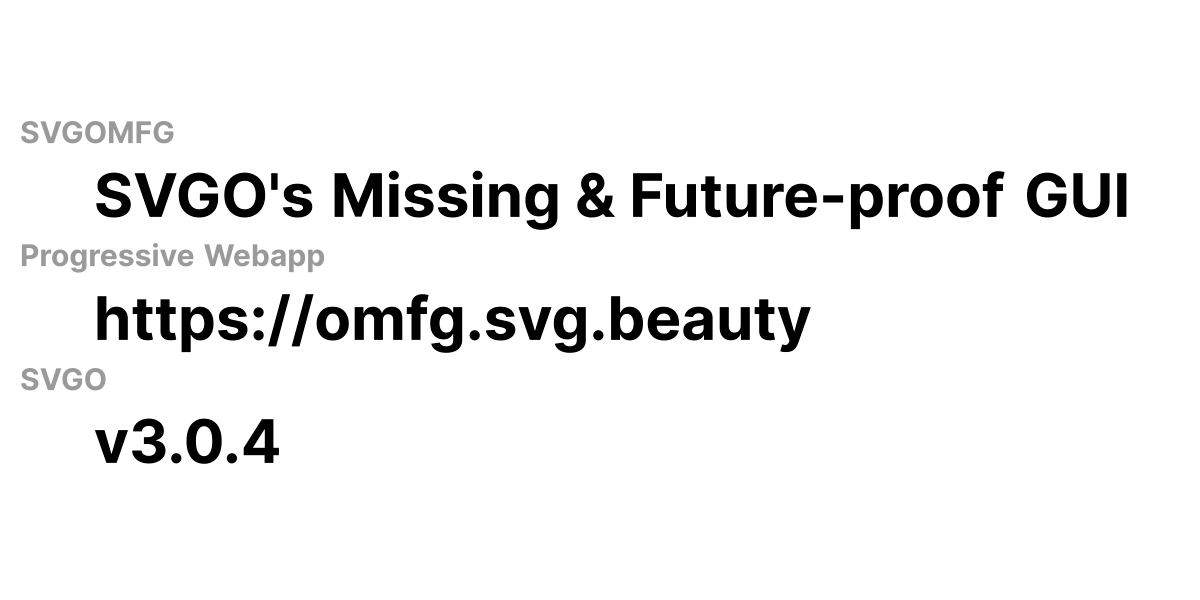
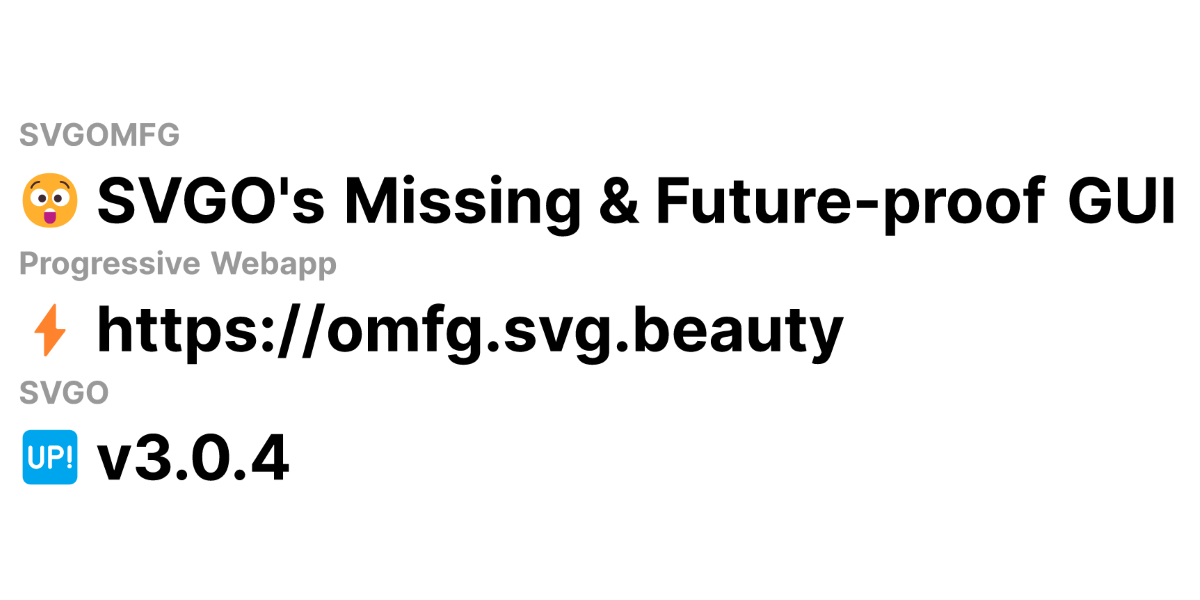
🎨 Just a little bit adjusting

Changed region(s): [[0.0, 0.27, 0.9867, 0.81], [0.0, 0.18, 0.1542, 0.24]]

diff --git a/src/js/page/ui/copy-button.js b/src/js/page/ui/copy-button.js
@@ -8,7 +8,7 @@ export default class CopyButton extends FloatingActionButton {
       title,
       iconSvg:
         // prettier-ignore
-        '<svg aria-hidden="true" class="icon" viewBox="0 0 24 24">' +
+        '<svg aria-hidden="true" fill="currentColor" class="icon" viewBox="0 0 24 24">' +
           '<path d="M9 18q-.825 0-1.412-.587T7 16V4q0-.825.588-1.412T9 2h9q.825 0 1.413.588T20 4v12q0 .825-.587 1.413T18 18H9Zm0-2h9V4H9v12Zm-4 6q-.825 0-1.412-.587T3 20V7q0-.425.288-.712T4 6q.425 0 .713.288T5 7v13h10q.425 0 .713.288T16 21q0 .425-.288.713T15 22H5Zm4-6V4v12Z"/>' +
         '</svg>',
     })

diff --git a/gulpfile.js b/gulpfile.js
@@ -123,8 +123,8 @@ async function html() {
         SVGOMFG_VERSION: changelog[0].version,
         SVGO_VERSION,
         liveBaseUrl: 'https://omfg.svg.beauty',
-        title: `SVGOMFG - SVGO's Missing GUI`,
-        description: 'Easy & visual compression of SVG images.',
+        title: "SVGOMFG‼ SVGO's Missing and Future-proof GUI",
+        description: 'Easy & Visual 🎛 Compression of SVG Images ⚡ Ready to install for Offline Usage 🔌',
         appleTouchIconPath: '/apple-touch-icon.png',
         faviconPath: '/favicon.svg',
         ogImagePath: '/imgs/og-image.png',

diff --git a/src/js/svgo-worker/index.js b/src/js/svgo-worker/index.js
@@ -43,10 +43,7 @@ function compress(svgInput, settings) {
       params: {},
     }
 
-    // TODO: revisit this
-    // 0 almost always breaks images when used on `cleanupNumericValues`.
-    // Better to allow 0 for everything else, but switch to 1 for this plugin.
-    plugin.params.floatPrecision = plugin.name === 'cleanupNumericValues' && floatPrecision === 0 ? 1 : floatPrecision
+    plugin.params.floatPrecision = floatPrecision // Remove the switch to 1 precision
 
     plugin.params.transformPrecision = transformPrecision
 

diff --git a/src/css/components/_floating-action-button.scss b/src/css/components/_floating-action-button.scss
@@ -7,7 +7,6 @@
   position: relative;
   cursor: pointer;
   overflow: hidden;
-  z-index: 0; // Is this really needed?
   display: flex;
   align-items: center;
   justify-content: center;
@@ -19,6 +18,8 @@
 
   &:hover,
   &.key-focused {
+    background-color: red;
+    color: #fff;
     transform: scale(1.15);
   }
 
@@ -51,7 +52,7 @@
     width: 56px;
     height: 56px;
     border-radius: 28px;
-    background-color: #fff;
+    background-color: red;
 
     .icon {
       fill: #fff;

diff --git a/src/css/components/_settings.scss b/src/css/components/_settings.scss
@@ -1,5 +1,6 @@
 .settings {
   background-color: #fff;
+  border-radius: 4px;
   display: flex;
   flex-flow: column;
   @include user-select(none);
@@ -16,7 +17,7 @@
   position: relative;
   cursor: pointer;
   padding: 0 16px;
-  height: 51px;
+  height: 40px;
   display: grid;
   grid-template-columns: max-content 1fr;
   align-items: center;

diff --git a/src/css/components/_results.scss b/src/css/components/_results.scss
@@ -9,7 +9,8 @@
     box-shadow: 0 3px 3px rgba(0, 0, 0, .2);
     padding: 7px 25px 7px 11px;
     font-size: .9rem;
-    border-radius: 2px;
+    font-weight: 500;
+    border-radius: 4px;
 
     .decrease {
       color: green;
